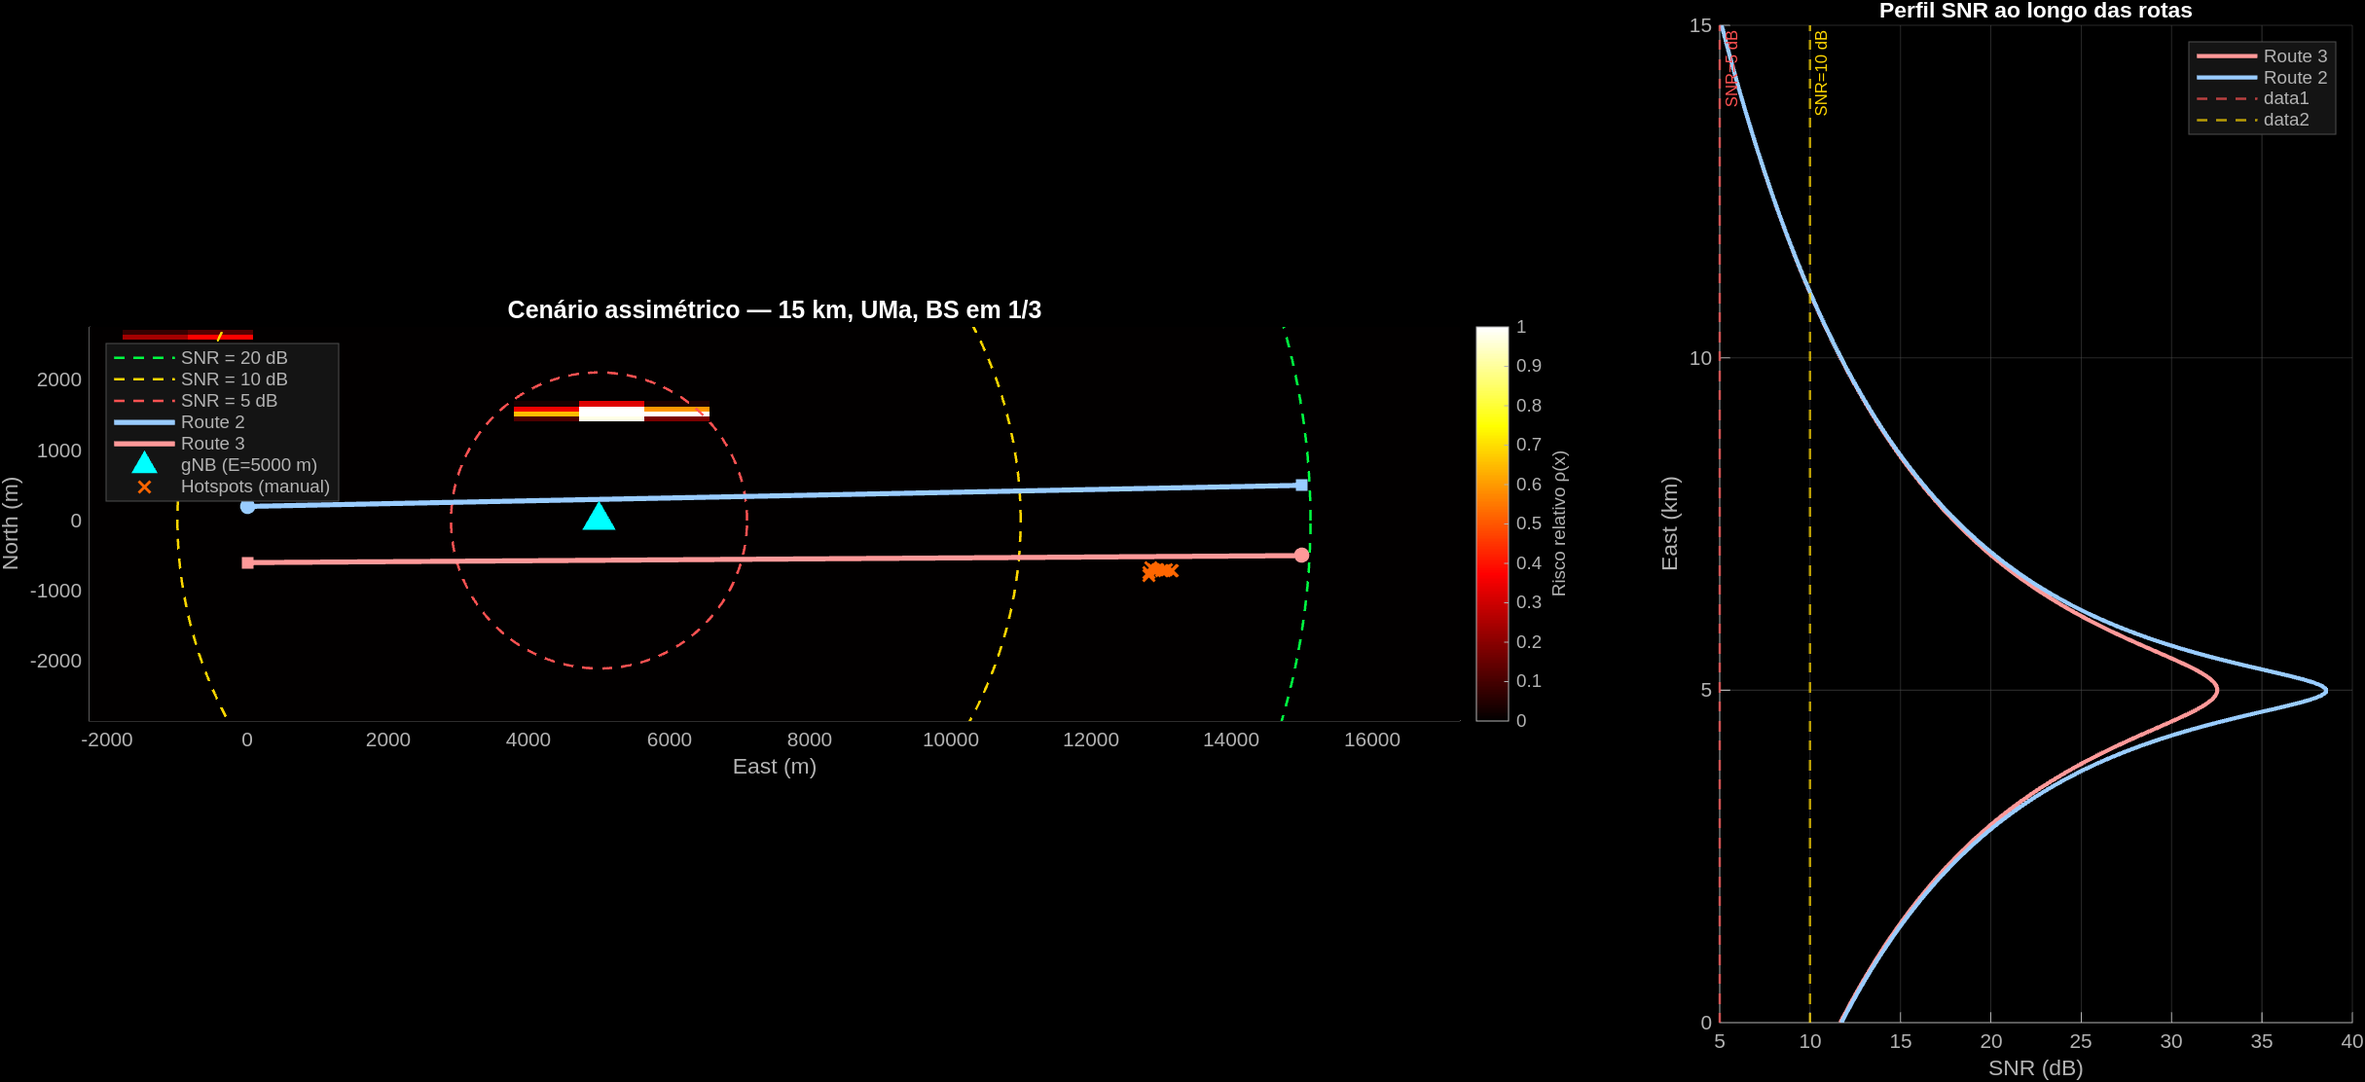
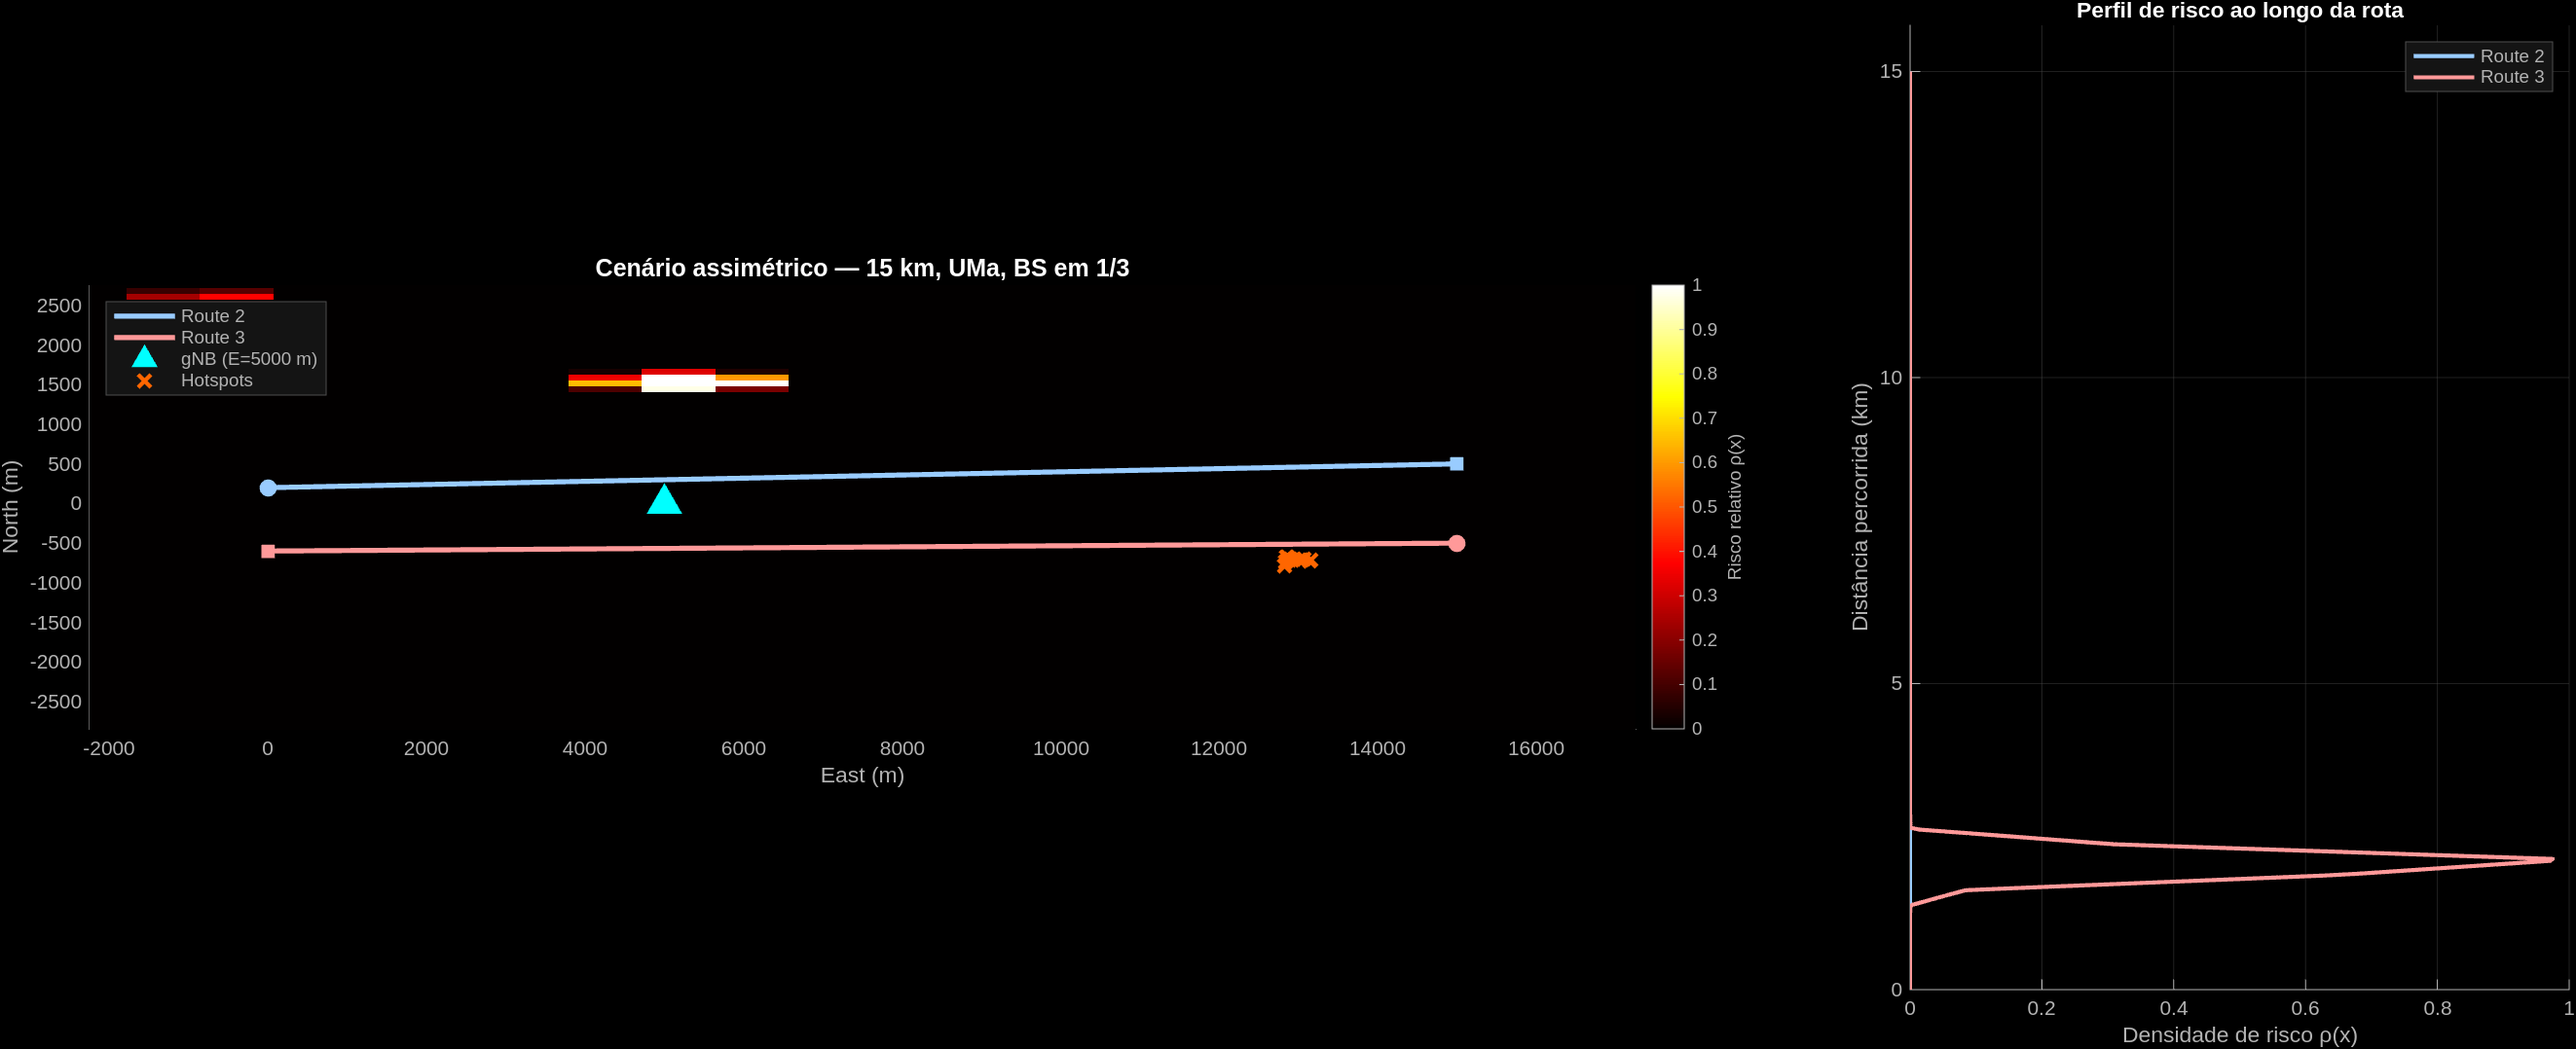
fix(plot): troca perfil SNR por perfil de risco ao longo das rotas
Remove contornos SNR confusos. Painel direito agora mostra ρ(x) ao longo
de cada rota via interpolação bilinear no mapa de risco: Route 3 exibe
spike em ~2 km (hotspots no extremo oposto), Route 2 fica em zero.

diff --git a/uam-sim-new/plot_scenario_assimetrico.m b/uam-sim-new/plot_scenario_assimetrico.m
@@ -1,5 +1,7 @@
 %% PLOT_SCENARIO_ASSIMETRICO
 %  Visualiza o mapa de risco, rotas e posição da gNB do cenário assimétrico.
+%  Painel esquerdo : mapa de risco 2D + rotas + gNB
+%  Painel direito  : perfil de risco ρ(x) ao longo de cada rota
 %  Salva em docs/scenario_assimetrico.png
 %
 %  Usage (MATLAB Command Window):
@@ -10,30 +12,43 @@ cfg = build_scenario_assimetrico();
 
 %% ── Mapa de risco ────────────────────────────────────────────────────
 [rhoMap, mapGrid] = init_ground_risk(cfg);
-XG = mapGrid.XG;   % North
-YG = mapGrid.YG;   % East
-
-%% ── SNR — contornos aproximados (UMa LOS, drone@60m, BS@30m) ────────
-% SNR = 132 - [28 + 22*log10(d) + 20*log10(3.5)]
-% d(SNR) = 10^((132 - SNR - 28 - 10.88) / 22)
-snr_levels = [5, 10, 20];   % dB
-d_snr = 10 .^ ((132 - snr_levels - 28 - 20*log10(3.5)) / 22);   % m
+XG = mapGrid.XG;   % North (linhas)
+YG = mapGrid.YG;   % East  (colunas)
 
 bs_n = cfg.microBSPos(1, 2);   % North
 bs_e = cfg.microBSPos(1, 1);   % East
 
-theta = linspace(0, 2*pi, 360);
+%% ── Perfil de risco ao longo de cada rota ────────────────────────────
+nSamp = 500;
+rho_routes = cell(1, numel(cfg.routes));
+dist_routes = cell(1, numel(cfg.routes));
+for ri = 1:numel(cfg.routes)
+    rt   = cfg.routes(ri);
+    ns   = linspace(rt.start(1), rt.goal(1), nSamp);   % North
+    es   = linspace(rt.start(2), rt.goal(2), nSamp);   % East
+    rho  = zeros(1, nSamp);
+    for k = 1:nSamp
+        % bilinear interpolation na grid
+        % XG(1,:) = North (col dim), YG(:,1) = East (row dim)
+        rho(k) = interp2(XG(1,:), YG(:,1), rhoMap, ns(k), es(k), 'linear', 0);
+    end
+    % distância acumulada ao longo da rota [km]
+    dx   = diff(ns); dy = diff(es);
+    d    = [0, cumsum(sqrt(dx.^2 + dy.^2))] / 1000;
+    rho_routes{ri}  = rho;
+    dist_routes{ri} = d;
+end
 
 %% ── Figura ───────────────────────────────────────────────────────────
-fig = figure('Position', [100 100 1200 600], 'Color', 'k');
+fig = figure('Position', [100 100 1300 580], 'Color', 'k');
 
-%% ── Painel esquerdo: mapa de risco + cenário ─────────────────────────
-ax = axes('Position', [0.05 0.10 0.60 0.82], 'Color', 'k', ...
+%% ── Painel esquerdo: mapa + cenário ─────────────────────────────────
+ax = axes('Position', [0.04 0.10 0.62 0.82], 'Color', 'k', ...
           'XColor', [0.7 0.7 0.7], 'YColor', [0.7 0.7 0.7], ...
-          'GridColor', [0.3 0.3 0.3], 'GridAlpha', 0.5);
+          'GridColor', [0.3 0.3 0.3], 'GridAlpha', 0.4);
 hold(ax, 'on'); grid(ax, 'on');
 
-% Heatmap de risco (eixo x=East, y=North)
+% Heatmap de risco
 imagesc(ax, mapGrid.mapYlim, mapGrid.mapXlim, rhoMap);
 colormap(ax, hot(256));
 cb = colorbar(ax);
@@ -43,39 +58,29 @@ cb.Label.Color  = [0.7 0.7 0.7];
 clim(ax, [0 1]);
 set(ax, 'YDir', 'normal');
 
-% Contornos SNR
-snr_colors = {'#00FF41', '#FFD700', '#FF5252'};   % verde/ouro/vermelho
-snr_labels = {'SNR = 20 dB', 'SNR = 10 dB', 'SNR = 5 dB'};
-for i = 1:numel(snr_levels)
-    c_e = bs_e + d_snr(i) * cos(theta);
-    c_n = bs_n + d_snr(i) * sin(theta);
-    plot(ax, c_e, c_n, '--', 'Color', snr_colors{i}, ...
-         'LineWidth', 1.2, 'DisplayName', snr_labels{i});
-end
-
 % Rotas
+rt_colors = {'#99CCFF', '#FF9999'};
 for ri = 1:numel(cfg.routes)
-    rt   = cfg.routes(ri);
-    cols = {'#99CCFF', '#FF9999'};
+    rt = cfg.routes(ri);
     plot(ax, [rt.start(2) rt.goal(2)], [rt.start(1) rt.goal(1)], ...
-         '-', 'Color', cols{ri}, 'LineWidth', 2.5, ...
+         '-', 'Color', rt_colors{ri}, 'LineWidth', 2.5, ...
          'DisplayName', rt.label);
-    % marcadores início / fim
-    plot(ax, rt.start(2), rt.start(1), 'o', 'Color', cols{ri}, ...
-         'MarkerFaceColor', cols{ri}, 'MarkerSize', 7, 'HandleVisibility', 'off');
-    plot(ax, rt.goal(2),  rt.goal(1),  's', 'Color', cols{ri}, ...
-         'MarkerFaceColor', cols{ri}, 'MarkerSize', 7, 'HandleVisibility', 'off');
+    plot(ax, rt.start(2), rt.start(1), 'o', 'Color', rt_colors{ri}, ...
+         'MarkerFaceColor', rt_colors{ri}, 'MarkerSize', 8, 'HandleVisibility', 'off');
+    plot(ax, rt.goal(2),  rt.goal(1),  's', 'Color', rt_colors{ri}, ...
+         'MarkerFaceColor', rt_colors{ri}, 'MarkerSize', 8, 'HandleVisibility', 'off');
 end
 
 % gNB
 plot(ax, bs_e, bs_n, '^', 'Color', '#00FFFF', 'MarkerFaceColor', '#00FFFF', ...
-     'MarkerSize', 12, 'LineWidth', 1.5, 'DisplayName', sprintf('gNB (E=%d m)', bs_e));
+     'MarkerSize', 13, 'LineWidth', 1.5, ...
+     'DisplayName', sprintf('gNB (E=%d m)', bs_e));
 
 % Hotspots manuais
 if ~isempty(cfg.manualHotspots)
     plot(ax, cfg.manualHotspots(:,2), cfg.manualHotspots(:,1), ...
-         'x', 'Color', '#FF6600', 'MarkerSize', 8, 'LineWidth', 1.5, ...
-         'DisplayName', 'Hotspots (manual)');
+         'x', 'Color', '#FF6600', 'MarkerSize', 9, 'LineWidth', 2, ...
+         'DisplayName', 'Hotspots');
 end
 
 xlabel(ax, 'East (m)', 'Color', [0.7 0.7 0.7]);
@@ -89,43 +94,24 @@ axis(ax, 'equal');
 xlim(ax, mapGrid.mapYlim);
 ylim(ax, mapGrid.mapXlim);
 
-%% ── Painel direito: perfil SNR ao longo de Route 3 ──────────────────
-ax2 = axes('Position', [0.72 0.10 0.26 0.82], 'Color', 'k', ...
+%% ── Painel direito: perfil de risco ao longo das rotas ───────────────
+ax2 = axes('Position', [0.73 0.10 0.25 0.82], 'Color', 'k', ...
            'XColor', [0.7 0.7 0.7], 'YColor', [0.7 0.7 0.7], ...
-           'GridColor', [0.3 0.3 0.3], 'GridAlpha', 0.5);
+           'GridColor', [0.3 0.3 0.3], 'GridAlpha', 0.4);
 hold(ax2, 'on'); grid(ax2, 'on');
 
-% Route 3 vai de E=15000 → E=0
-e_r3 = linspace(15000, 0, 300);
-n_r3 = linspace(-500, -600, 300);   % interpolação linear
-d_r3 = sqrt((e_r3 - bs_e).^2 + (n_r3 - bs_n).^2 + 30^2);   % 3D (delta_alt=30m)
-PL_r3 = 28 + 22*log10(d_r3) + 20*log10(3.5);
-SNR_r3 = 132 - PL_r3;   % link budget: Ptx=23, G=15, noise=-94 dBm
+for ri = 1:numel(cfg.routes)
+    plot(ax2, rho_routes{ri}, dist_routes{ri}, '-', ...
+         'Color', rt_colors{ri}, 'LineWidth', 2, ...
+         'DisplayName', cfg.routes(ri).label);
+end
 
-plot(ax2, SNR_r3, e_r3/1000, '-', 'Color', '#FF9999', 'LineWidth', 2, ...
-     'DisplayName', 'Route 3');
-
-% Route 2: E=0 → E=15000
-e_r2 = linspace(0, 15000, 300);
-n_r2 = linspace(200, 500, 300);
-d_r2 = sqrt((e_r2 - bs_e).^2 + (n_r2 - bs_n).^2 + 30^2);
-PL_r2 = 28 + 22*log10(d_r2) + 20*log10(3.5);
-SNR_r2 = 132 - PL_r2;
-
-plot(ax2, SNR_r2, e_r2/1000, '-', 'Color', '#99CCFF', 'LineWidth', 2, ...
-     'DisplayName', 'Route 2');
-
-% Linha de threshold
-xline(ax2, 5,  '--', 'Color', '#FF5252', 'LineWidth', 1.2, 'Label', 'SNR=5 dB', ...
-      'LabelColor', '#FF5252', 'FontSize', 8);
-xline(ax2, 10, '--', 'Color', '#FFD700', 'LineWidth', 1.2, 'Label', 'SNR=10 dB', ...
-      'LabelColor', '#FFD700', 'FontSize', 8);
-
-xlabel(ax2, 'SNR (dB)', 'Color', [0.7 0.7 0.7]);
-ylabel(ax2, 'East (km)', 'Color', [0.7 0.7 0.7]);
-title(ax2, 'Perfil SNR ao longo das rotas', 'Color', 'w', 'FontSize', 11);
+xlabel(ax2, 'Densidade de risco ρ(x)', 'Color', [0.7 0.7 0.7]);
+ylabel(ax2, 'Distância percorrida (km)', 'Color', [0.7 0.7 0.7]);
+title(ax2, 'Perfil de risco ao longo da rota', 'Color', 'w', 'FontSize', 11);
 legend(ax2, 'Location', 'northeast', 'TextColor', [0.7 0.7 0.7], ...
        'Color', [0.08 0.08 0.08], 'EdgeColor', [0.3 0.3 0.3]);
+ylim(ax2, [0, max(cellfun(@max, dist_routes)) * 1.05]);
 
 %% ── Salva ────────────────────────────────────────────────────────────
 outDir = fullfile(fileparts(mfilename('fullpath')), '..', 'docs');
